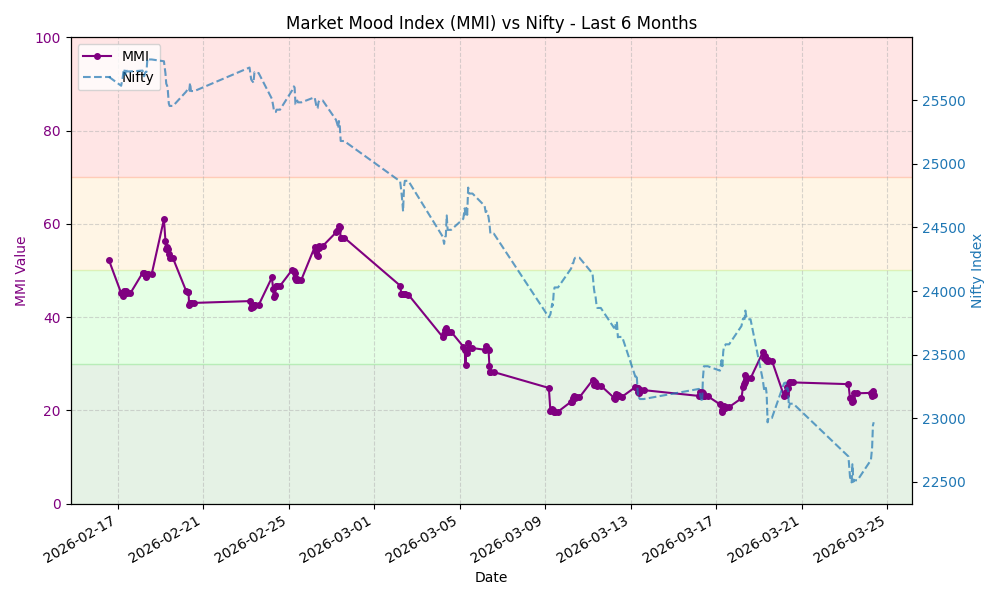
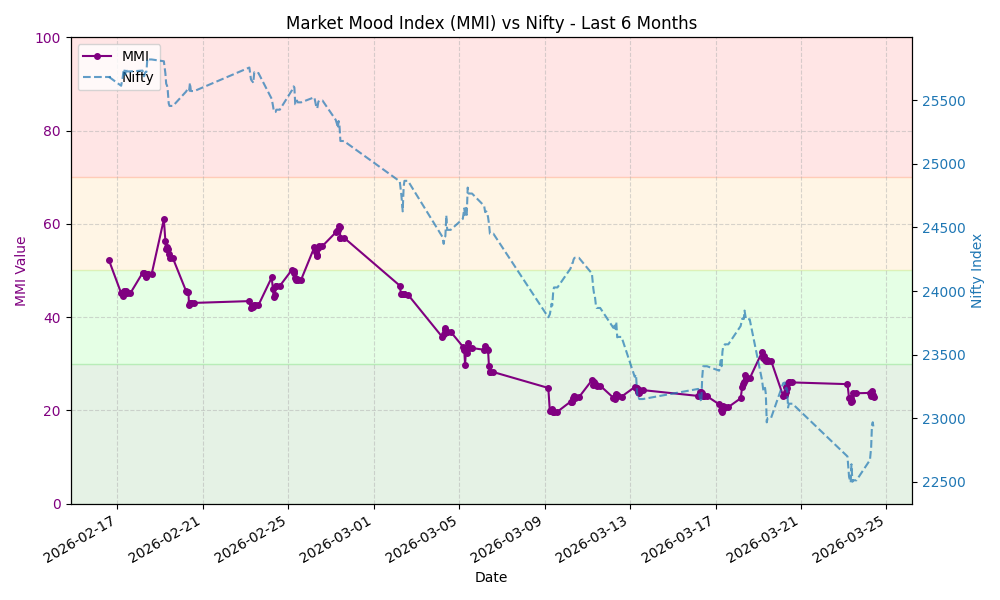
Update MMI data and chart

diff --git a/README.md b/README.md
@@ -7,8 +7,8 @@ This repository automatically fetches the MMI value, stores the history, and gen
 
 ## Latest MMI Value
 
-**23.24** - **Extreme Fear**
-<small>Last Updated: 2026-03-24 08:36 UTC</small>
+**22.77** - **Extreme Fear**
+<small>Last Updated: 2026-03-24 09:42 UTC</small>
 
 ## MMI Trend (Last 30 Days)
 
